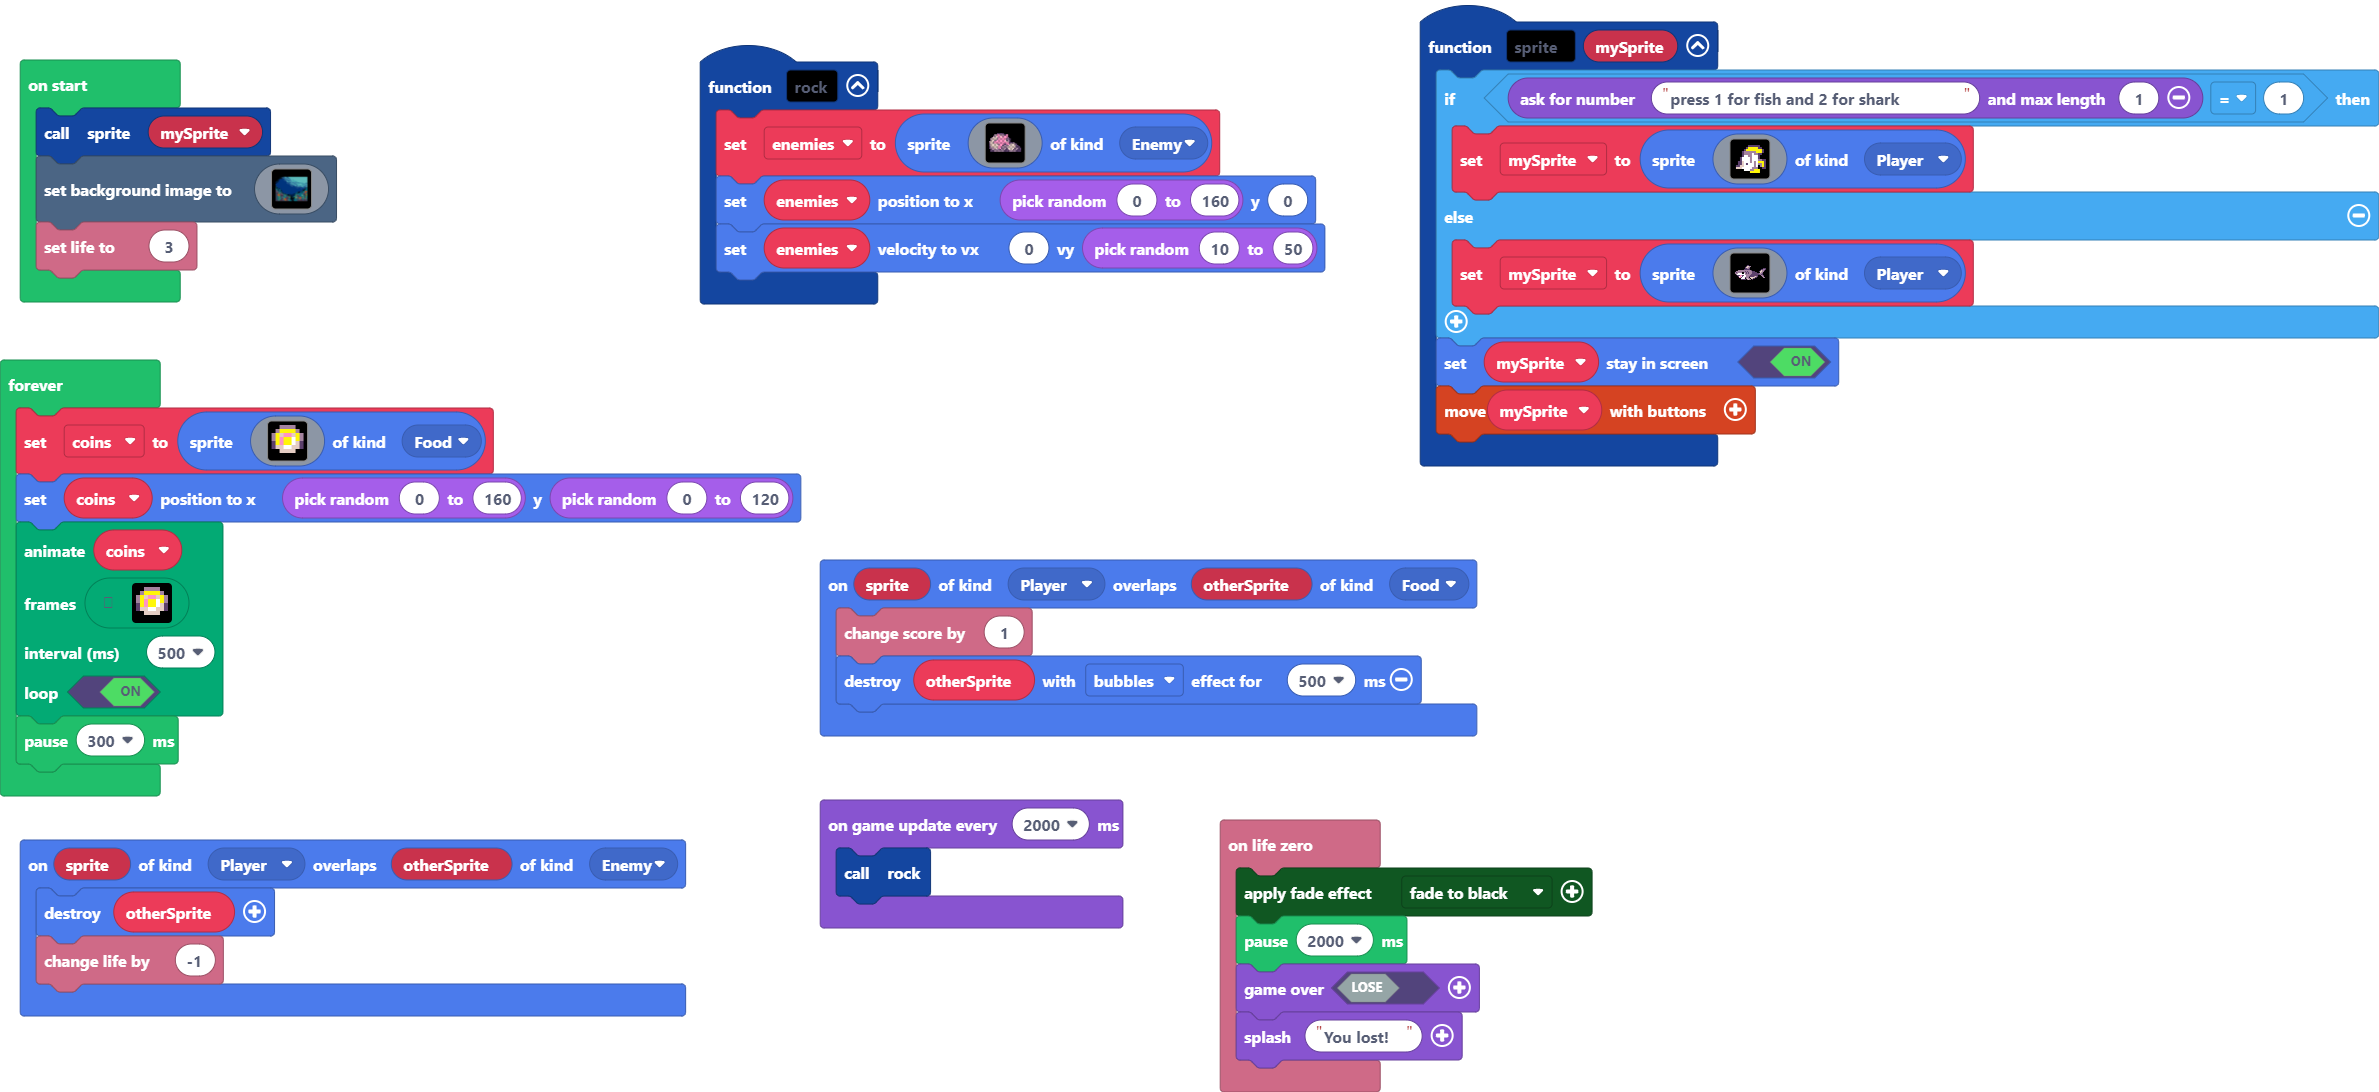
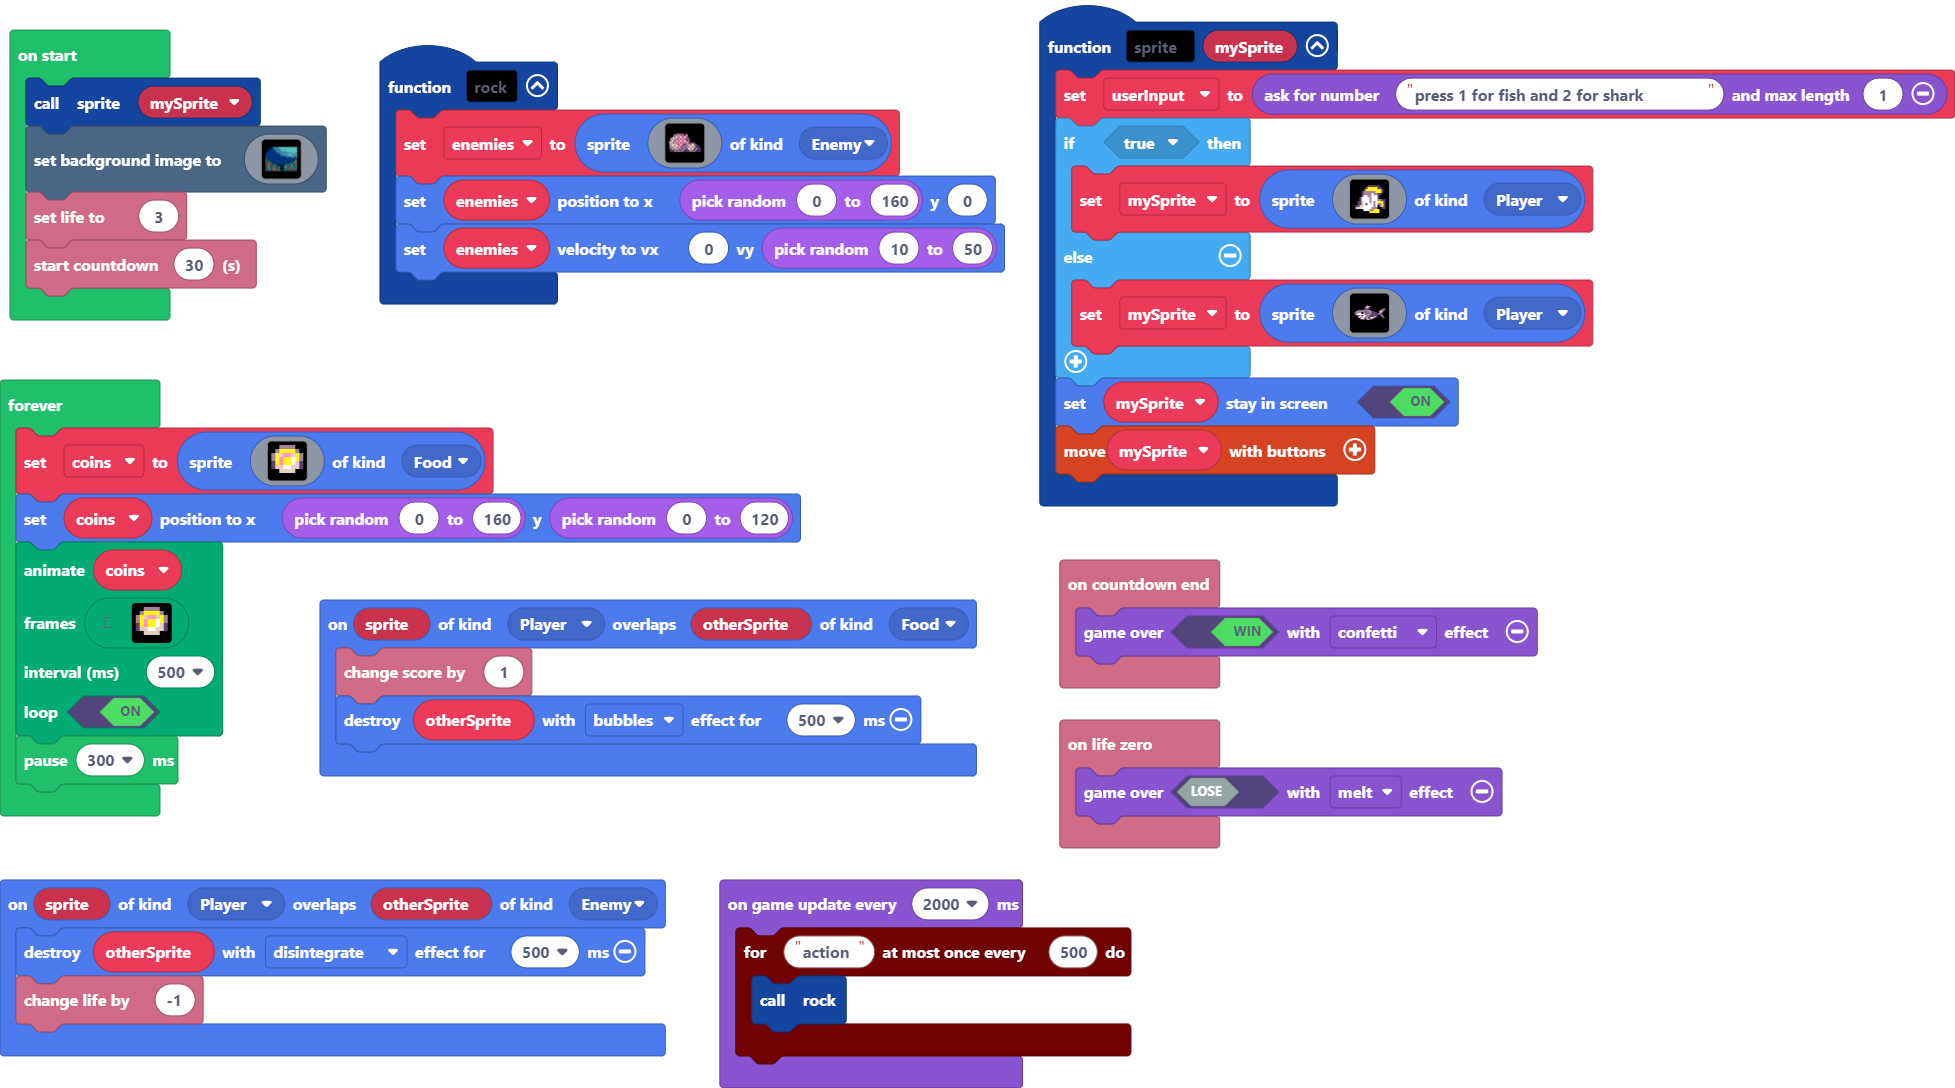
Update pxt.json, main.blocks, main.ts

diff --git a/main.ts b/main.ts
@@ -1,5 +1,6 @@
 function sprite (mySprite: Sprite) {
-    if (game.askForNumber("press 1 for fish and 2 for shark ", 1) == 1) {
+    userInput = game.askForNumber("press 1 for fish and 2 for shark ", 1)
+    if (true) {
         mySprite = sprites.create(img`
             . . . . . . . . . . . . . . . . 
             . . . . . . . c c c c c c . . . 
@@ -41,18 +42,18 @@ function sprite (mySprite: Sprite) {
     mySprite.setStayInScreen(true)
     controller.moveSprite(mySprite)
 }
+info.onCountdownEnd(function () {
+    game.over(true, effects.confetti)
+})
 info.onLifeZero(function () {
-    color.FadeToBlack.startScreenEffect()
-    pause(2000)
-    game.over(false)
-    game.splash("You lost!")
+    game.over(false, effects.melt)
 })
 sprites.onOverlap(SpriteKind.Player, SpriteKind.Food, function (sprite2, otherSprite) {
     info.changeScoreBy(1)
     otherSprite.destroy(effects.bubbles, 500)
 })
 sprites.onOverlap(SpriteKind.Player, SpriteKind.Enemy, function (sprite2, otherSprite) {
-    otherSprite.destroy()
+    otherSprite.destroy(effects.disintegrate, 500)
     info.changeLifeBy(-1)
 })
 function rock () {
@@ -77,6 +78,7 @@ function rock () {
 }
 let coins: Sprite = null
 let enemies: Sprite = null
+let userInput = 0
 let mySprite: Sprite = null
 sprite(mySprite)
 scene.setBackgroundImage(img`
@@ -202,8 +204,11 @@ scene.setBackgroundImage(img`
[1 lines of base64/hex data omitted]
     `)
 info.setLife(3)
+info.startCountdown(30)
 game.onUpdateInterval(2000, function () {
-    rock()
+    timer.throttle("action", 500, function () {
+        rock()
+    })
 })
 forever(function () {
     coins = sprites.create(img`
